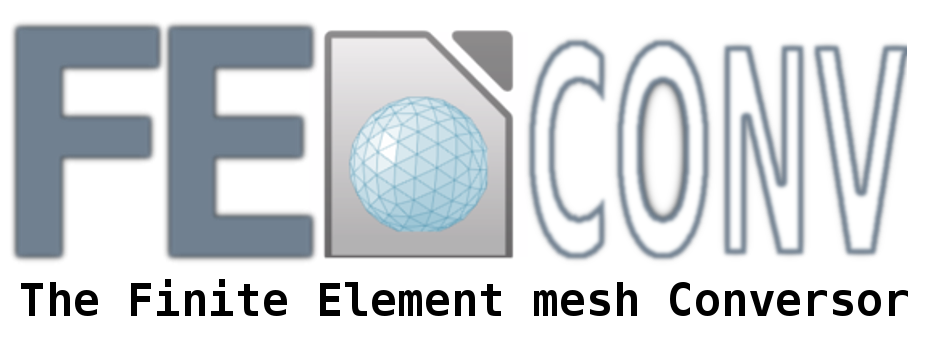
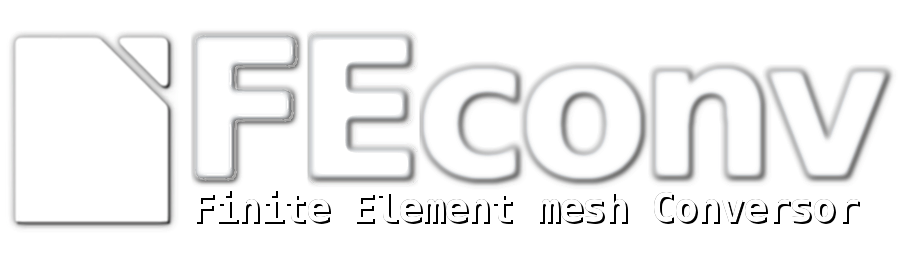
FECONV: help - header images added

diff --git a/doc/new/formats/plantilla.html b/doc/new/formats/plantilla.html
@@ -11,7 +11,8 @@
 <body>
 
   <header>
-    <img src="images/ico.png"/>
+    <img float="left" align="left" src="../images/gear.png"/>
+    <img float="right" align="right" src="../images/feconv.png"/>
   </header>
 
   <nav class="breadcrumbs">

diff --git a/doc/new/css/structure.css b/doc/new/css/structure.css
@@ -18,7 +18,7 @@ html, body {
 
 
 header {
-  height: 15%;
+  height: 10%;
   text-align: center;
 }
 
